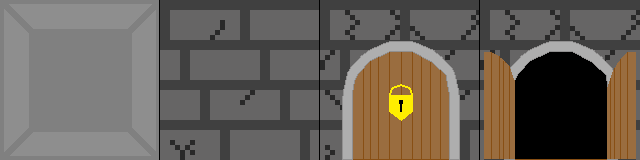
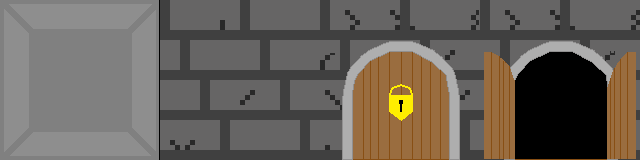
休憩所追加

diff --git a/GameTaisyou2-4c/GameTaisyou2-4c/GameMainScene.cpp b/GameTaisyou2-4c/GameTaisyou2-4c/GameMainScene.cpp
@@ -111,6 +111,7 @@ GameMainScene::GameMainScene()
 
 	SetDrawBright(Bright, Bright, Bright);
 
+	Restarea = LoadGraph("images/Restarea.png");
 }
 
 AbstractScene* GameMainScene::Update() 
@@ -129,7 +130,7 @@ AbstractScene* GameMainScene::Update()
 			player.Update();
 		}
 
-		if (!UpGrade && SafeZone && player.GetX() / BLOCK_SIZE == 6 && PAD_INPUT::OnClick(XINPUT_BUTTON_Y))
+		if (!UpGrade && SafeZone && player.GetX() / BLOCK_SIZE <= 8 && 4 <= player.GetX() / BLOCK_SIZE && PAD_INPUT::OnClick(XINPUT_BUTTON_Y))
 		{
 			player.Reset();
 			UpGrade = true;
@@ -450,9 +451,18 @@ void GameMainScene::Draw() const
 		for (int j = 0; j < MAP_WIDTH; j++)
 		{
 			if (MapData[i][j] < 4)DrawGraph(160 * (4 + j) - player.GetX(), 360 + 160 * i - player.GetY(), MapImg[MapData[i][j]], TRUE);
+
 		}
+		
+
 	}
 	
+	if (Level % 10 == 0 && SafeZone)
+	{
+		//DrawGraph(160 * 5 - player.GetX(), 160 * 8 - player.GetY(), Restarea, TRUE);
+		DrawExtendGraph(160 * 5 - player.GetX(), 160 * 8 + 40 - player.GetY(), 160 * 15  - player.GetX(), 160 * 12 + 40 - player.GetY(), Restarea, TRUE);
+	}
+
 	//DrawFormatString(0, 500, 0xff0000, "%d", Space);
 
 	//宝箱描画
@@ -487,9 +497,22 @@ void GameMainScene::Draw() const
 		DrawRotaGraph2(DoorX, DoorY, 18, 16, 1, 0, DoorIcon[2], true);
 	}
 
-	if (!UpGrade && SafeZone && player.GetX() / BLOCK_SIZE == 6) 
+	//セーフゾーン
+	if (!UpGrade && SafeZone && player.GetX() / BLOCK_SIZE  <= 7 && 6 <= player.GetX() / BLOCK_SIZE)
 	{
-		DrawRotaGraph(SCREEN_WIDTH / 2, SCREEN_HEIGHT / 2 - 100 , 1, 0, DoorIcon[3], true);
+		DrawRotaGraph(SCREEN_WIDTH / 2 , SCREEN_HEIGHT / 2 - 100, 1, 0, DoorIcon[3], true);
+		//DrawRotaGraph2(SCREEN_WIDTH / 2, SCREEN_HEIGHT / 2 - 100, 18, 16, 1, 0, DoorIcon[2], true);
+
+	}
+
+	if (MapExitY * 160 + 100 > player.GetX() && MapExitY * 160 + 60 < player.GetX() && player.GetY() == MapExitX * 160 + 131 && !Exit_flg &&Level % 10 == 0 && SafeZone) {
+
+		int DoorX = 160 * (4 + MapExitY) + 80 - player.GetX();
+		int DoorY = 360 + 160 * MapExitX + 120 - player.GetY() - BLOCK_SIZE * 0.7;
+
+		DrawRotaGraph(DoorX, DoorY, 1.2, 0, DoorIcon[0], true);
+		DrawCircleGauge(DoorX, DoorY, 100 * (count / 60.f), DoorIcon[1], 0, 1.2, false, false);
+		DrawRotaGraph2(DoorX, DoorY, 18, 16, 1, 0, DoorIcon[2], true);
 	}
 
 	//ダメージ描画
@@ -804,7 +827,7 @@ void GameMainScene::MakeMap()
 	}
 	else
 	{
-	player.SetY(BLOCK_SIZE * 9.5);
+	player.SetY(BLOCK_SIZE * 9.5 + BLOCK_SIZE / 2 - player.GetHeight() / 2);
 
 	Space = 0;
 	for (int i = 0; i < MAP_HEIGHT; i++)
@@ -833,9 +856,9 @@ void GameMainScene::MakeMap()
 			}
 		}
 
-		MapData[MAP_HEIGHT - 2][MAP_WIDTH - 3] = 2;
+		//MapData[MAP_HEIGHT - 2][MAP_WIDTH - 3] = 2;
 		MapExitX = MAP_HEIGHT - 2;
-		MapExitY = MAP_WIDTH - 3;
+		MapExitY = MAP_WIDTH - 5;
 
 		CheckSpace(player.GetY() / 160, player.GetX() / 160, &Space);
 	}
@@ -1007,6 +1030,8 @@ void GameMainScene::ExitCheck() {
 			else if (--count < 0)count = 0;
 		}
 	}
+
+
 }
 
 void GameMainScene::SearchEnemy() 

diff --git a/GameTaisyou2-4c/GameTaisyou2-4c/GameMainScene.h b/GameTaisyou2-4c/GameTaisyou2-4c/GameMainScene.h
@@ -36,7 +36,7 @@ private:
 	//Enemy2 enemy2;
 	UI ui;
 	TreasureBox** treasurebox;
-
+	int Restarea;
 	int CameraX;
 	int CameraY;
 

diff --git a/GameTaisyou2-4c/GameTaisyou2-4c/Item.h b/GameTaisyou2-4c/GameTaisyou2-4c/Item.h
@@ -26,4 +26,3 @@ public:
 
 	virtual	void SetMapData(int MapData[MAP_HEIGHT][MAP_WIDTH]) = 0;
 };
-
